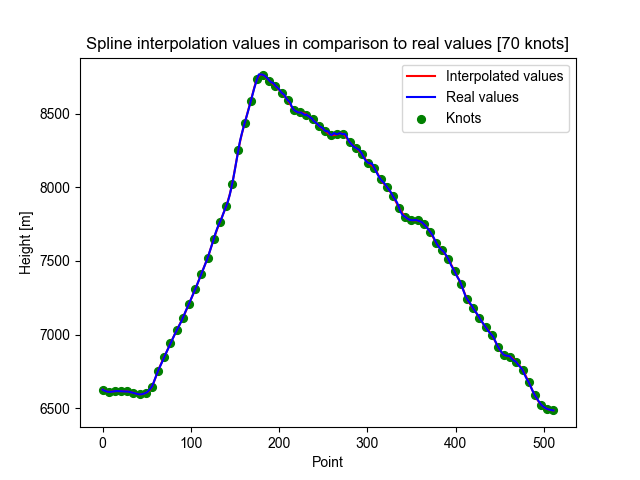
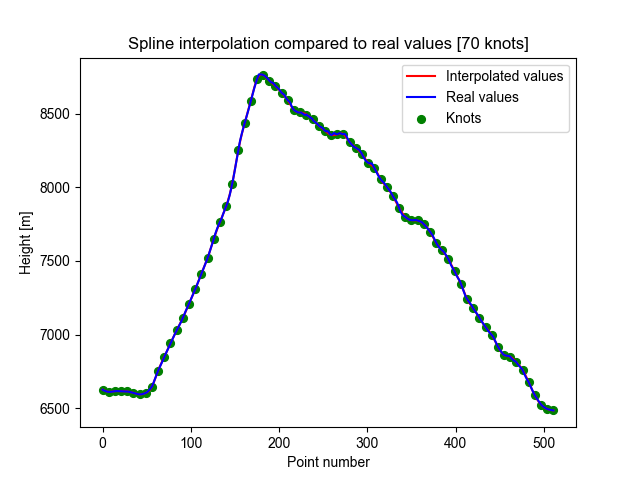
Better plotting

Changed region(s): [[0.125, 0.0625, 0.9062, 0.125], [0.4375, 0.9375, 0.5938, 0.9688]]

diff --git a/main.py b/main.py
@@ -14,9 +14,9 @@ def plot_interpolation(name, knots_number, data_set_number, sample_data, real_va
     for i, point in enumerate(sample_data):
         if i != 0:
             pyplot.scatter(point[0], point[1], s=125, marker='.', color='g')
-    pyplot.xlabel('Point')
+    pyplot.xlabel('Point number')
     pyplot.ylabel('Height [m]')
-    pyplot.title(name + ' interpolation values in comparison to real values [' + str(knots_number) + ' knots]')
+    pyplot.title(name + ' interpolation compared to real values [' + str(knots_number) + ' knots]')
     pyplot.legend()
     pyplot.savefig('charts' + str(data_set_number + 1) + '/' + name + '-' + str(knots_number) + '-knots.png')
     pyplot.close()
